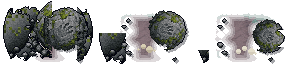
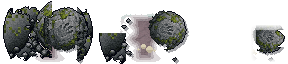
Fix open boulder drawing ground over Kaela.
Clear the baked passage/ground decal from open road_boulder art (and the
final roll frame) so only the east resting stone stays opaque, and Y-sort
open boulders on the stone foot (art y=56) instead of the full canvas.

Changed region(s): [[0.6875, 0.2188, 1.0, 1.0]]

diff --git a/lib/cyberpunk_space_rpg/creatures/gate_components.dart b/lib/cyberpunk_space_rpg/creatures/gate_components.dart
@@ -50,8 +50,10 @@ class GateArt {
   static List<Rect> get boulderClosedColliders => ObstacleMasks.boulderClosed;
   static List<Rect> get boulderOpenColliders => ObstacleMasks.boulderOpen;
 
-  /// Open-state resting stone (art px); used for depth sort.
-  static const boulderOpenFoot = 64.0;
+  /// Open-state resting stone foot Y (art px from [road_boulder.json]
+  /// `open.boulder_bbox` bottom). Used for Y-sort so Kaela walks over the
+  /// clear passage and only ducks behind the east rock mass.
+  static const boulderOpenFoot = 56.0;
   static const boulderArtHeight = 64.0;
 
   /// road_boulder.json puts the interaction on the south side; on the Woods
@@ -370,9 +372,9 @@ class FallenBoulderGate extends AbilityGate {
   @override
   Offset get interactArt => GateArt.boulderInteract;
 
-  // Closed: sort on the plug's south foot. Open: on the resting stone's base
-  // (default rectCollision used the tiny old pad and drew the whole sprite
-  // over Kaela when she stood beside it in the passage).
+  // Closed: sort on the plug's south foot. Open: resting-stone foot only
+  // (art y=56). Passage pixels are transparent so a high sort cannot paint
+  // ground over Kaela in the west lane.
   @override
   int get priority {
     final foot = isOpen
